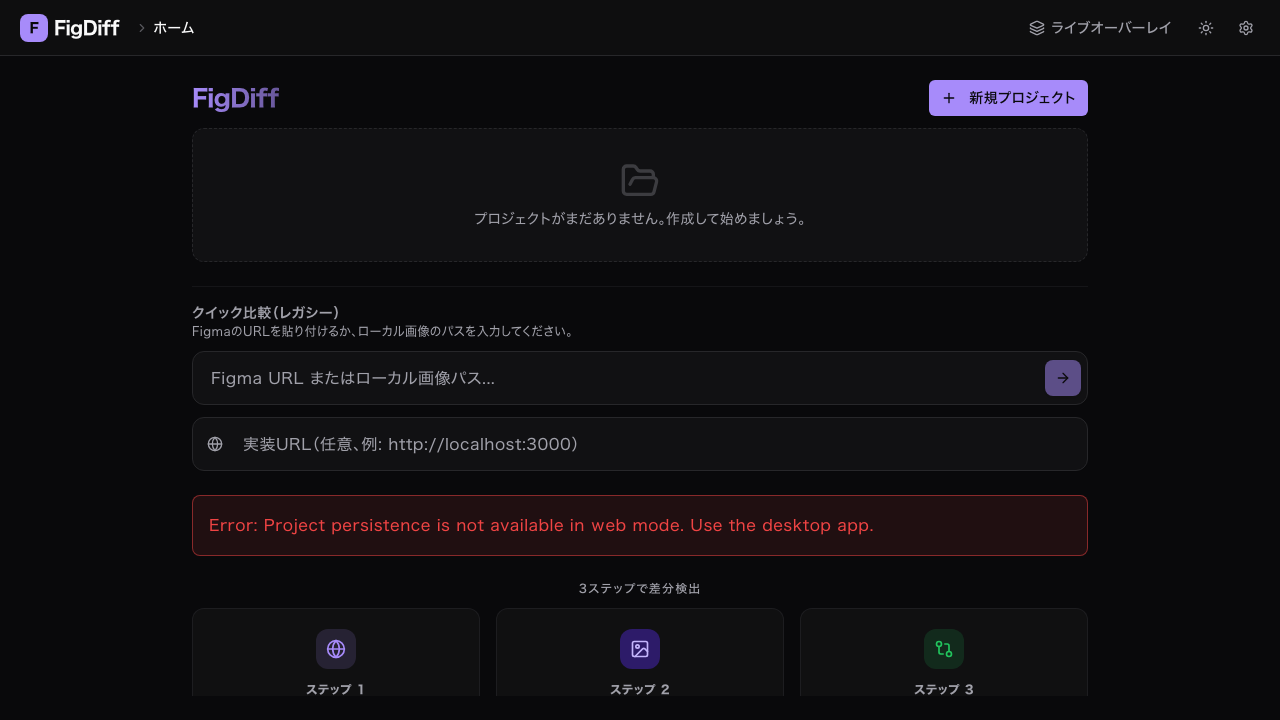
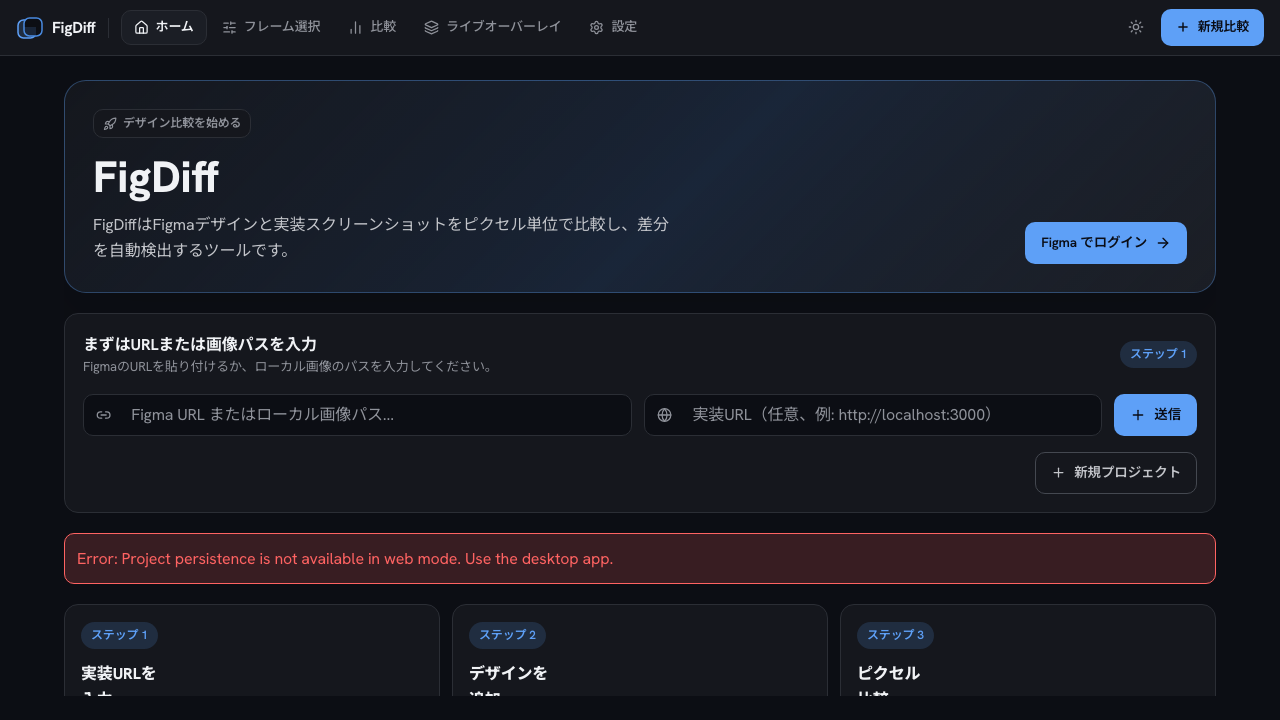
fix(desktop): E2E をCIで動かし、止まっとった「作成」ボタンを直す
Playwright の spec 4本は作られてから一度もCIで動いてなかった。
ローカルで回すと29件中6件落ちる。

うち1件は spec が正しく、実装が壊れとった。ホームの「作成」ボタンは
名前も実装URLも空のまま押せるが、handleCreateProject が両方を要求して
黙って return するので何も起きん。押せる見た目で無反応やと、押した人には
壊れとるようにしか見えん。必須欄が空なら押せんようにする。

残り5件は spec の側が古い。設定がダイアログからページへ変わったのに
spec がダイアログを探しとった。開き方を e2e/helper.ts へまとめて、
次に変わったとき直す場所が1つで済むようにする。

- app/desktop/package.json に e2e スクリプトを追加
- ci.yml に E2E ジョブを追加。失敗時だけレポートを保存する
- playwright.config.ts の html レポーターを open:never に。
  CI で戻ってこんようになるため
- playwright-report/ を .gitignore へ
- 証跡の PNG を現在のUIで撮り直し。
  oauth-ui-setting-dialog.png は生成元が無くなったので削除

app/desktop で pnpm run e2e → 29件すべて緑。
desktop の単体テスト445件も緑のまま。

diff --git a/app/desktop/e2e/oauth-ui.spec.ts b/app/desktop/e2e/oauth-ui.spec.ts
@@ -4,6 +4,8 @@ import { fileURLToPath } from "node:url";
 
 import { expect, test } from "@playwright/test";
 
+import { openSettings, revealPatInput } from "./helper.js";
+
 const currentDir = path.dirname(fileURLToPath(import.meta.url));
 const EVIDENCE_DIR = path.resolve(currentDir, "../../../docs/evidence");
 
@@ -12,54 +14,43 @@ test.beforeAll(() => {
 });
 
 test.describe("OAuth UI 描画検証", () => {
-  test("設定ダイアログに OAuth ログインセクションが表示されること", async ({ page }) => {
+  test("設定画面に Figma ログインが表示されること", async ({ page }) => {
     await page.goto("/");
     await page.waitForLoadState("networkidle");
+    await openSettings(page);
 
-    const settingsBtn = page.locator("header").getByRole("button").last();
-    await settingsBtn.click();
-    await page.waitForTimeout(500);
+    await expect(page.getByText("Figma接続")).toBeVisible();
+    await expect(page.getByRole("button", { name: "Figma でログイン" })).toBeVisible();
 
-    const dialog = page.locator("[role=dialog]");
-    await expect(dialog).toBeVisible();
-
-    // OAuth セクションラベル
-    await expect(page.getByText("Figma ログイン (OAuth)")).toBeVisible();
-
-    // OAuth ログインボタン
-    await expect(page.getByText("Figma でログイン")).toBeVisible();
-
-    // PAT フォールバック節
-    await expect(page.getByText("PAT フォールバック")).toBeVisible();
-
-    // PAT 入力プレースホルダ
-    await expect(page.getByPlaceholder("figd_...")).toBeVisible();
+    // PAT は畳まれた状態が既定。OAuth を先に見せる作りになっている。
+    await expect(page.getByPlaceholder("figd_...")).toBeHidden();
+    await expect(
+      page.getByRole("button", { name: "代わりに Personal Access Token を使用" }),
+    ).toBeVisible();
 
     await page.screenshot({
-      path: path.join(EVIDENCE_DIR, "oauth-ui-setting-dialog.png"),
+      path: path.join(EVIDENCE_DIR, "oauth-ui-setting-screen.png"),
       fullPage: true,
     });
   });
 
-  test("設定ダイアログで OAuth ボタンのみが有効で PAT 保存ボタンは初期 disabled であること", async ({
-    page,
-  }) => {
+  test("PAT が空のあいだは保存ボタンが押せないこと", async ({ page }) => {
     await page.goto("/");
     await page.waitForLoadState("networkidle");
+    await openSettings(page);
 
-    const settingsBtn = page.locator("header").getByRole("button").last();
-    await settingsBtn.click();
-    await page.waitForTimeout(500);
+    await expect(page.getByRole("button", { name: "Figma でログイン" })).toBeEnabled();
 
-    const dialog = page.locator("[role=dialog]");
-    await expect(dialog).toBeVisible();
-
-    // PAT 入力が空の場合は保存ボタンが disabled
+    await revealPatInput(page);
     const patInput = page.getByPlaceholder("figd_...");
     await expect(patInput).toHaveValue("");
+    await expect(page.getByRole("button", { name: "保存" })).toBeDisabled();
 
-    // OAuth ボタンは enabled
-    const oauthBtn = page.getByRole("button", { name: "Figma でログイン" });
-    await expect(oauthBtn).toBeEnabled();
+    // 空白だけでは押せない。trim してから判定しているため。
+    await patInput.fill("   ");
+    await expect(page.getByRole("button", { name: "保存" })).toBeDisabled();
+
+    await patInput.fill("figd_dummy_value_for_ui_check");
+    await expect(page.getByRole("button", { name: "保存" })).toBeEnabled();
   });
 });

diff --git a/app/desktop/e2e/desktop-happy-path.spec.ts b/app/desktop/e2e/desktop-happy-path.spec.ts
@@ -4,6 +4,8 @@ import { fileURLToPath } from "node:url";
 
 import { expect, test } from "@playwright/test";
 
+import { openSettings } from "./helper.js";
+
 const currentDir = path.dirname(fileURLToPath(import.meta.url));
 const EVIDENCE_DIR = path.resolve(currentDir, "../../../docs/evidence");
 
@@ -54,8 +56,11 @@ test.describe("Desktop Happy Path E2E", () => {
       await page.goto("/");
       await page.waitForLoadState("networkidle");
 
-      const step1 = page.locator("text=ステップ 1");
-      await expect(step1).toBeVisible();
+      // 「ステップ 1」は入力欄の見出しと3ステップ説明の両方に出る。
+      // どちらか1つを指さないと strict mode に引っかかる。
+      const step1 = page.locator("span.fd-pill", { hasText: "ステップ 1" });
+      await expect(step1.first()).toBeVisible();
+      await expect(page.locator("span.fd-pill", { hasText: "ステップ 3" }).first()).toBeVisible();
     });
   });
 
@@ -93,22 +98,32 @@ test.describe("Desktop Happy Path E2E", () => {
 
       await page.locator("button:has-text('新規プロジェクト')").click();
 
-      const createBtn = page.locator("button:has-text('作成')");
+      const createBtn = page.getByRole("button", { name: "作成", exact: true });
       await expect(createBtn).toBeDisabled();
+
+      // 片方だけ埋めても押せない。handleCreateProject が両方を要求するため。
+      await page.locator("input[placeholder*='プロジェクト名']").fill("サンプル");
+      await expect(createBtn).toBeDisabled();
+
+      // トップの入力欄にも「実装URL」を含む placeholder があるので、作成フォーム側を名指しする。
+      await page
+        .getByPlaceholder("実装URL（例: http://localhost:3000）")
+        .fill("http://localhost:3000");
+      await expect(createBtn).toBeEnabled();
     });
   });
 
-  test.describe("設定ダイアログ", () => {
-    test("設定アイコンからダイアログが開くこと", async ({ page }) => {
+  // 設定はダイアログではなくヘッダーのナビゲーションから開くページになっている。
+  test.describe("設定画面", () => {
+    test("ヘッダーの設定から設定画面へ遷移できること", async ({ page }) => {
       await page.goto("/");
       await page.waitForLoadState("networkidle");
 
-      const settingsBtn = page.locator("header").getByRole("button").last();
-      await settingsBtn.click();
-      await page.waitForTimeout(500);
+      await openSettings(page);
 
-      const dialog = page.locator("[role=dialog]");
-      await expect(dialog).toBeVisible();
+      await expect(page.getByRole("heading", { name: "設定", exact: true })).toBeVisible();
+      await expect(page.getByText("Figma接続")).toBeVisible();
+      await expect(page.getByText("外観")).toBeVisible();
 
       await page.screenshot({
         path: path.join(EVIDENCE_DIR, "e2e-desktop-settings.png"),

diff --git a/app/desktop/e2e/performance.spec.ts b/app/desktop/e2e/performance.spec.ts
@@ -16,6 +16,8 @@ import { fileURLToPath } from "node:url";
 
 import { expect, test } from "@playwright/test";
 
+import { openSettings } from "./helper.js";
+
 const currentDir = path.dirname(fileURLToPath(import.meta.url));
 const EVIDENCE_DIR = path.resolve(currentDir, "../../../docs/evidence");
 
@@ -114,7 +116,8 @@ test.describe("Performance measurements", () => {
     expect(p95ms).toBeLessThanOrEqual(INTERACTION_P95_THRESHOLD_MS);
   });
 
-  test("Settings dialog open p95 ≤ 200ms", async ({ page }) => {
+  // 設定はダイアログではなくページになった。開くまでの体感を測る目的は同じ。
+  test("Settings screen open p95 ≤ 200ms", async ({ page }) => {
     await page.goto("/");
     await page.waitForLoadState("networkidle");
 
@@ -122,17 +125,10 @@ test.describe("Performance measurements", () => {
 
     for (let i = 0; i < SAMPLES; i++) {
       const start = Date.now();
-      const settingsBtn = page.locator("header").getByRole("button").last();
-      await settingsBtn.click();
-      await page.locator("[role=dialog]").waitFor({ state: "visible" });
+      await openSettings(page);
       openTimes.push(Date.now() - start);
 
-      // Close dialog
-      await page.keyboard.press("Escape");
-      await page
-        .locator("[role=dialog]")
-        .waitFor({ state: "hidden" })
-        .catch(() => {});
+      await page.getByRole("navigation", { name: "Main navigation" }).getByText("ホーム").click();
       await page.waitForTimeout(50);
     }
 
@@ -144,9 +140,9 @@ test.describe("Performance measurements", () => {
 
     const updated = {
       ...existing,
-      settingsDialogP95Ms: p95ms,
-      settingsDialogThresholdMs: INTERACTION_P95_THRESHOLD_MS,
-      settingsDialogPass: p95ms <= INTERACTION_P95_THRESHOLD_MS,
+      settingsScreenP95Ms: p95ms,
+      settingsScreenThresholdMs: INTERACTION_P95_THRESHOLD_MS,
+      settingsScreenPass: p95ms <= INTERACTION_P95_THRESHOLD_MS,
     };
 
     fs.writeFileSync(

diff --git a/app/desktop/e2e/helper.ts b/app/desktop/e2e/helper.ts
@@ -1,0 +1,25 @@
+import { expect } from "@playwright/test";
+
+import type { Page } from "@playwright/test";
+
+/**
+ * ヘッダーのナビゲーションから設定画面を開く。
+ *
+ * 以前はダイアログだったので、各 spec が「ヘッダーの最後のボタン」を押して
+ * `[role=dialog]` を待っていた。設定がページになってからその手順は当たらなくなり、
+ * 4本の spec が同じ形で壊れた。開き方は1箇所にまとめて、次に変わったときに
+ * 直す場所が1つで済むようにしておく。
+ */
+export async function openSettings(page: Page): Promise<void> {
+  await page.getByRole("navigation", { name: "Main navigation" }).getByText("設定").click();
+  await expect(page.getByRole("heading", { name: "設定", exact: true })).toBeVisible();
+}
+
+/**
+ * 設定画面で Personal Access Token の入力欄を出す。
+ * 既定では畳まれていて、OAuth を先に見せる作りになっている。
+ */
+export async function revealPatInput(page: Page): Promise<void> {
+  await page.getByRole("button", { name: "代わりに Personal Access Token を使用" }).click();
+  await expect(page.getByPlaceholder("figd_...")).toBeVisible();
+}

diff --git a/app/desktop/src/component/home/home-page.tsx b/app/desktop/src/component/home/home-page.tsx
@@ -431,11 +431,13 @@ export const HomePage = ({ onNavigate }: HomePageProps) => {
               style={{ background: "var(--surface)", borderColor: "var(--border)" }}
             />
             <div className="flex gap-2">
+              {/* handleCreateProject は名前か実装URLが空なら黙って何もしない。
+                  押せる見た目のまま無反応やと、押した人には壊れとるようにしか見えん。 */}
               <button
                 type="button"
                 className="fd-btn primary"
                 onClick={handleCreateProject}
-                disabled={isLoading}
+                disabled={isLoading || !createName.trim() || !implUrl.trim()}
               >
                 {t("common.create")}
               </button>

diff --git a/app/desktop/playwright.config.ts b/app/desktop/playwright.config.ts
@@ -3,6 +3,8 @@ import { defineConfig } from "@playwright/test";
 export default defineConfig({
   testDir: "./e2e",
   timeout: 30000,
+  // 既定の html レポーターは実行後にサーバーを立ち上げようとする。CI では戻ってこないので開かせない。
+  reporter: [["list"], ["html", { open: "never" }]],
   use: {
     baseURL: "http://localhost:1420",
     headless: true,
